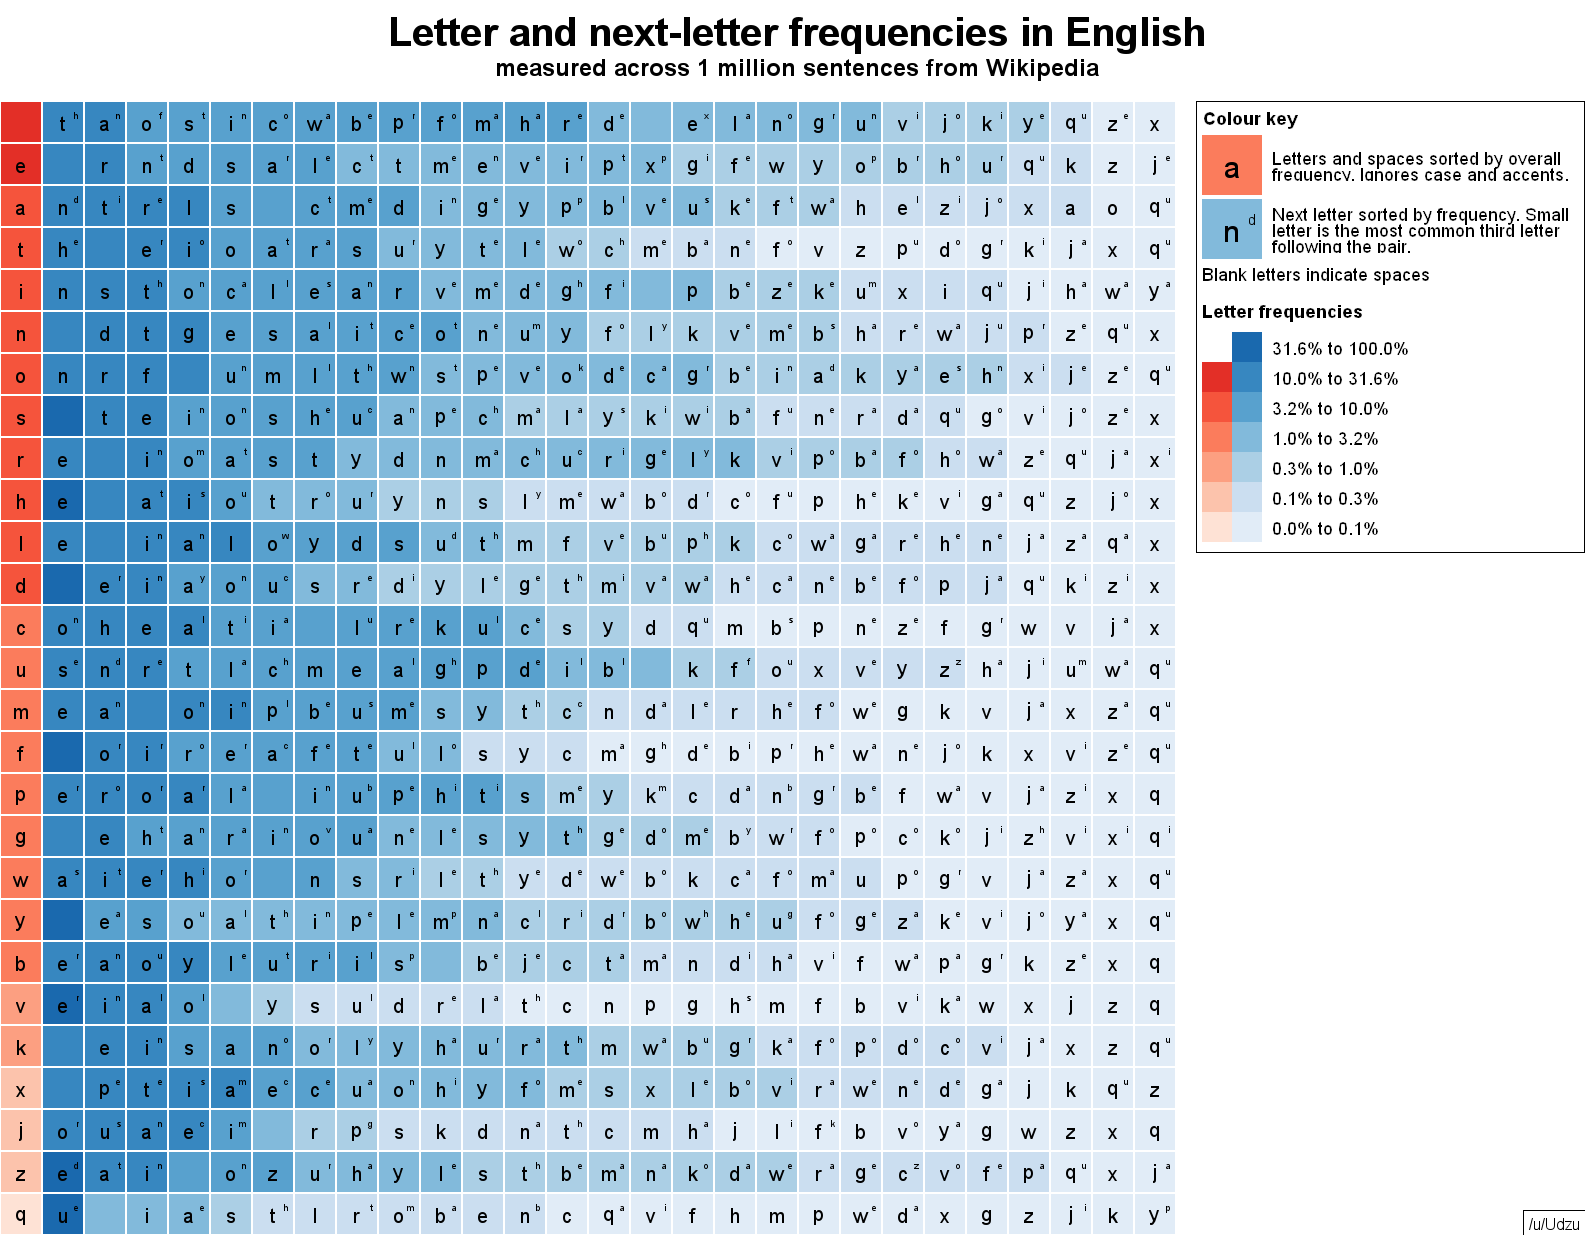
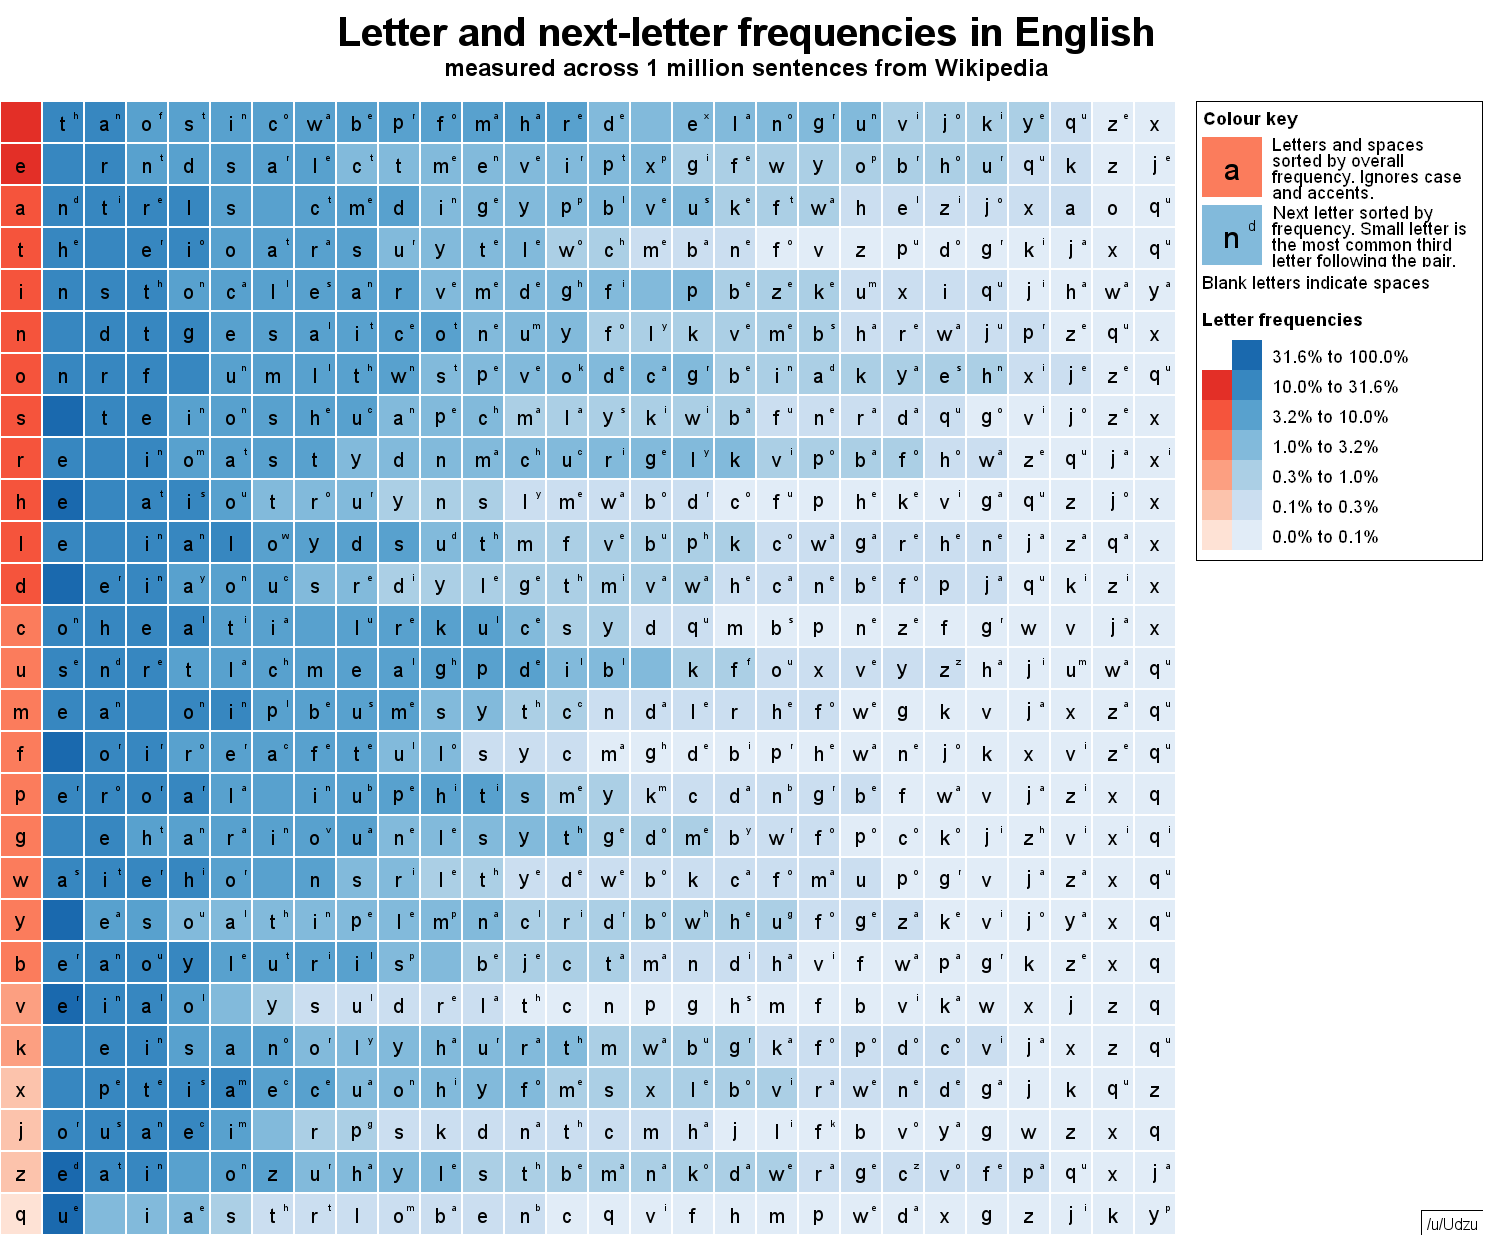
Minor reformat

Changed region(s): [[0.0, 0.0, 0.9859, 1.0], [0.9551, 0.9767, 0.9859, 1.0]]

diff --git a/dataviz/markovtext.py b/dataviz/markovtext.py
@@ -12,7 +12,7 @@ from math import log
 
 CORPUS = "-wikifrench"
 TITLE = "Letter and next-letter frequencies in French"
-SUBTITLE = "measured across a selection articles from Wikipedia"
+SUBTITLE = "measured across a selection of articles from Wikipedia"
 LETTERS = string.ascii_lowercase + ' '
 
 def normalise(i):
@@ -72,8 +72,8 @@ grid = grid_chart(data, lambda p, r: image_fn(p, row=r, palette=ptwo), fg="black
 font_size = 18
 
 type_boxes = Image.from_array([
-[image_fn(('a', 0.01), pone, size=60), Image.from_text("Letters and spaces sorted by overall frequency. Ignores case and accents.", arial(font_size), padding=(10,0), max_width=300)],
-[image_fn(('n', 0.01), ptwo, row='d', size=60), Image.from_text("Next letter sorted by frequency. Small letter is the most common third letter following the pair.", arial(font_size), padding=(10,0), max_width=300)]
+[image_fn(('a', 0.01), pone, size=60), Image.from_text("Letters and spaces sorted by overall frequency. Ignores case and accents.", arial(font_size), padding=(10,0), max_width=200)],
+[image_fn(('n', 0.01), ptwo, row='d', size=60), Image.from_text("Next letter sorted by frequency. Small letter is the most common third letter following the pair.", arial(font_size), padding=(10,0), max_width=200)]
 ], bg="white", xalign=0, padding=(0,2))
 type_leg = Image.from_column([Image.from_text("Colour key", arial(font_size, bold=True)), type_boxes, Image.from_text("Blank letters indicate spaces", arial(font_size))], bg="white", xalign=0, padding=(0,2))
 
